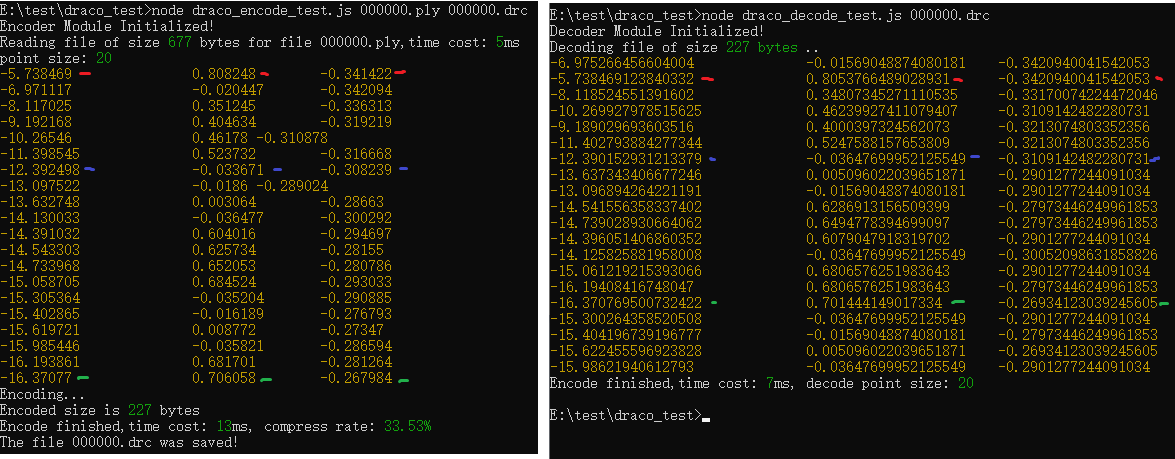
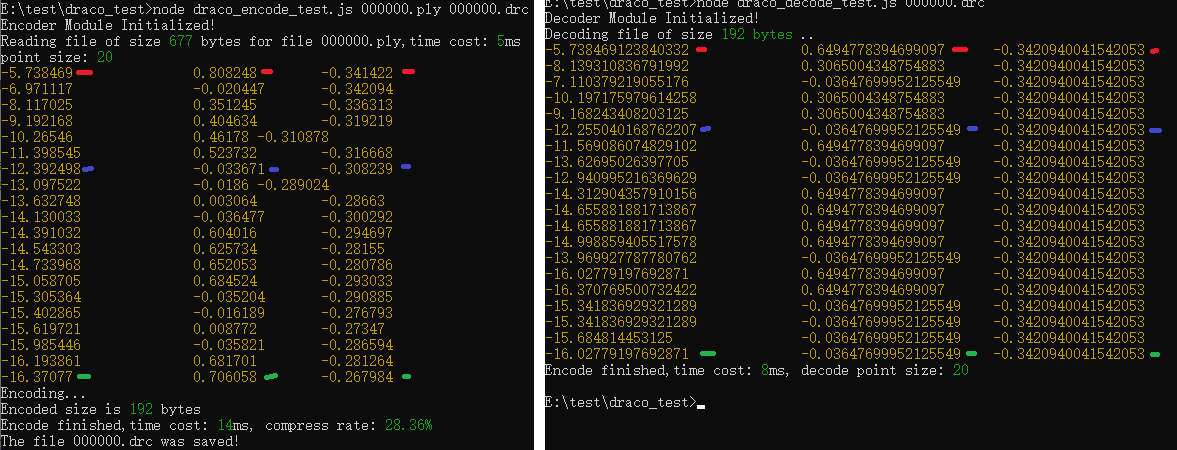
update draco content

Changed region(s): [[0.0, 0.0, 1.0, 1.0], [0.1532, 0.1244, 0.3677, 0.8711]]

diff --git a/content/post/pointcloud/using-draco-to-encode-decode-and-transport-pointcloud-data.md b/content/post/pointcloud/using-draco-to-encode-decode-and-transport-pointcloud-data.md
@@ -2,7 +2,7 @@
 title: "利用Draco对点云数据进行编码解码以实现高效网络传输"
 date: 2025-02-26T10:20:20+08:00
 lastmod: 2025-02-26T10:20:20+08:00
-draft: true
+draft: false
 keywords: ["点云","three.js","draco","编码","解码","网络传输"]
 description: "基于自己项目中的经验，介绍如何利用Google Draco对点云数据编码与解码，以便缩小点云数据体积实现高效的网络传输"
 tags: ["pointcloud","draco"]
@@ -224,7 +224,7 @@ function encodePointCloudToFile(file, data) {
     let encodedData = new encoderModule.DracoInt8Array();
     // Set encoding options.
     encoder.SetSpeedOptions(5, 5);
-    encoder.SetAttributeQuantization(encoderModule.POSITION, 10);
+    encoder.SetAttributeQuantization(encoderModule.POSITION, 5);
     encoder.SetEncodingMethod(encoderModule.MESH_EDGEBREAKER_ENCODING);
 
     // Encoding.
@@ -576,7 +576,11 @@ done
 
 ## 精确度问题
 
-前述测试主要对比的是点云数据，没有对编码解码后的具体点云信息进行对比，而在点云总数符合要求时，其精确度可能会发生变化，最终对点云整体渲染显示效果造成干扰。
+前述测试主要对比的是点云数据，没有对编码解码后的具体点云信息进行对比，而在点云总数符合要求时，基于不同的压缩设置，其精确度可能会发生变化，最终对点云整体渲染显示效果造成干扰。
+
+关于压缩参数的设置，官方的说明如下
+
+> In general, the highest setting, `10`, will have the most compression but worst decompression speed. `0` will have the least compression, but best decompression speed. The default setting is `7`.
 
 利用下述代码对编码和解码过程中的数据进行输出对比
 
@@ -604,6 +608,9 @@ rl.on('close', () => {
     
     encodePointCloudToFile(dstFile, points);
 });
+
+// 压缩水平默认设置为5,其值范围从0到10
+encoder.SetAttributeQuantization(encoderModule.POSITION, 5);
 ```
 
 将解码部分修改如下
@@ -639,17 +646,11 @@ node draco_decode_test.js 000000.drc
 基于上述输出可得出如下结论：
 
 1. 点云解码后的结果与原始文件的数据顺序不一定一致，但同一个点云的相关数据(x,y,z,颜色等)一定是在一起的，点云存储的顺序对最终结果无影响
-2. 采用`Float`存储数据时，在编码解码过程中有一定程度精确度损失，可能会对最终的显示效果造成影响。
+2. 在低压缩度时，虽然解码速度上去了，但是数据的精确度牺牲很大(在本例中的z坐标数据都一样)，可能会对实际使用造成影响
 
 ### Int对比
 
-观察原始的点云数据输出，发现其小数点后最多有6位小数，尝试在编码过程中可将其放大为整数，解码过程中缩小为浮点数，以避免精确度的损失。
-
-执行下述代码安装依赖库
-
-```bash
-npm install decimal.js
-```
+观察原始的点云数据输出，发现其小数点后最多有6位小数，尝试在编码过程中可将其放大为整数，解码过程中缩小为浮点数，以验证是否为`Float`类型导致的精确度丢失。
 
 将编码部分修改如下
 
@@ -681,13 +682,22 @@ printPointClouds(points);
 decoderModule.destroy(attributeData);
 ```
 
-重新执行编解码后的输出如下，可以看出其对比结果与`Float`类型的差别不大
+重新执行编解码后的输出如下，可以看出其对比结果与`Float`类型的差别不大，精确度的丢失不是由于`Float`数据类型造成的
 
 ![Draco基于Int的编解码对比](/blog_img/pointcloud/using-draco-to-encode-decode-and-transport-pointcloud-data/draco-int-compare.png "Draco基于Int的编解码对比") 
 
 ### 高压缩率对比
 
+在编码过程中设置高压缩比，以牺牲解码性能
 
+```bash
+// 压缩率从5变为10
+encoder.SetAttributeQuantization(encoderModule.POSITION, 5);
+```
+
+执行结果对比如下，可看出其精确度有了明显的提升！
+
+![Draco基于不同压缩率的对比](/blog_img/pointcloud/using-draco-to-encode-decode-and-transport-pointcloud-data/draco-compress-level-compare.png "Draco基于不同压缩率的对比") 
 
 ## 显示效果对比
 
@@ -695,14 +705,14 @@ decoderModule.destroy(attributeData);
 
 ![原始点云渲染](/blog_img/pointcloud/using-draco-to-encode-decode-and-transport-pointcloud-data/original-point-cloud-render.png "原始点云渲染") 
 
-采用`Draco`基于`Float`类型编码解码或采用高压缩率后渲染效果如下，如前所述此时其会损失一定程度的精确度，导致渲染后的效果与原始渲染效果有肉眼可见的清晰度差异。
+基于低压缩率编码解码后的渲染效果如下，如前所述此时其会损失一定程度的精确度，导致渲染后效果与原始渲染效果有肉眼可见的清晰度差异。
 
 尽管如此还是能看清楚要展示的内容，此种方式适合对性能要求严苛的场景。
 
-![基于Float的Draco点云渲染](/blog_img/pointcloud/using-draco-to-encode-decode-and-transport-pointcloud-data/float-draco-point-cloud-render.png "基于Float的Draco点云渲染") 
+![基于低压缩率的Draco点云渲染](/blog_img/pointcloud/using-draco-to-encode-decode-and-transport-pointcloud-data/float-draco-point-cloud-render.png "基于低压缩率的Draco点云渲染") 
 
-采用`Draco`基于`Int`类型编码或者低压缩率后渲染效果如下，其显示效果与原始渲染效果差别已经很接近了。
-![基于Int的Draco点云渲染](/blog_img/pointcloud/using-draco-to-encode-decode-and-transport-pointcloud-data/int-draco-point-cloud-render.png "基于Int的Draco点云渲染") 
+采用高压缩率的编码解码后的渲染效果如下，其显示效果与原始渲染效果差别已经很接近了。
+![基于高压缩率的Draco点云渲染](/blog_img/pointcloud/using-draco-to-encode-decode-and-transport-pointcloud-data/int-draco-point-cloud-render.png "基于高压缩率的Draco点云渲染") 
 
 [^1]: 数据差异较大的原因网络环境导致，左侧为公司内部网络测试、右侧为其它区域的分公司测试
 [^2]: 基于编码压缩时设置的参数，实际解码后的数据与原始数据会有一定程度的误差，但整体上不会对正常使用造成影响
